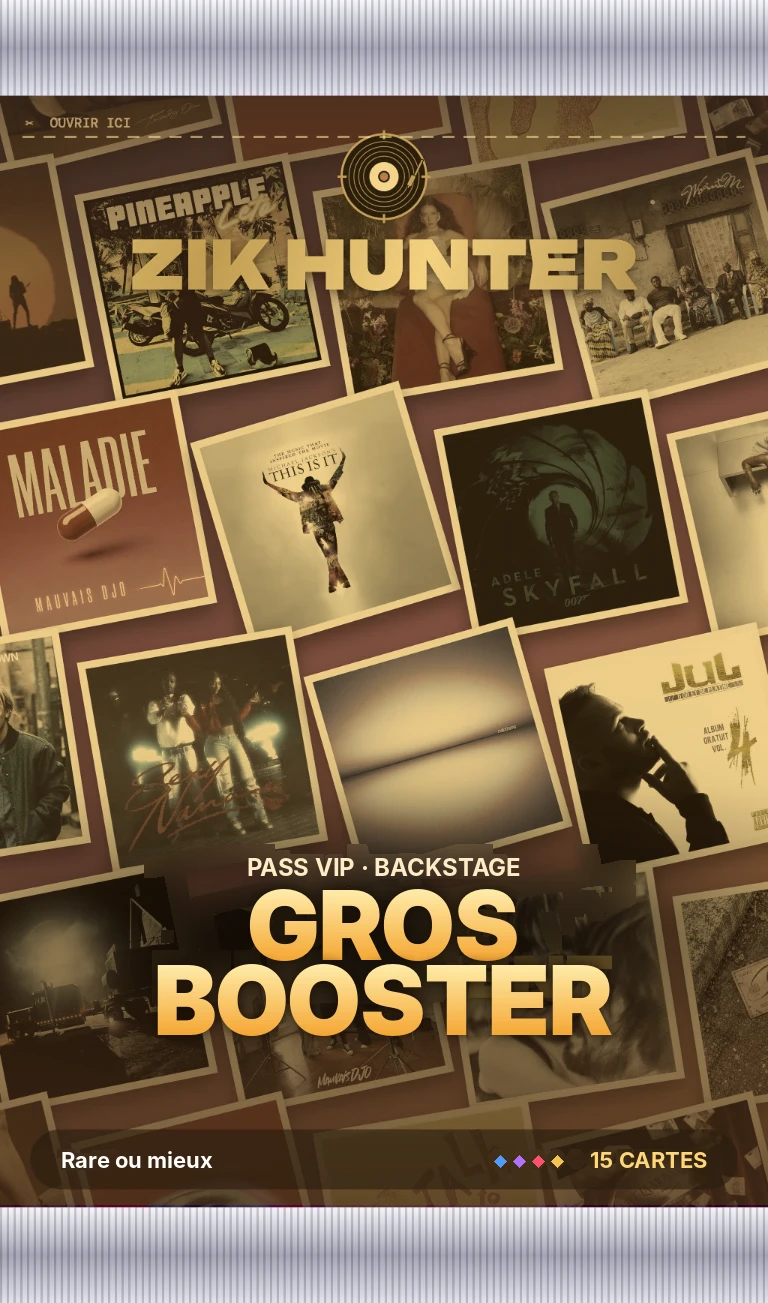
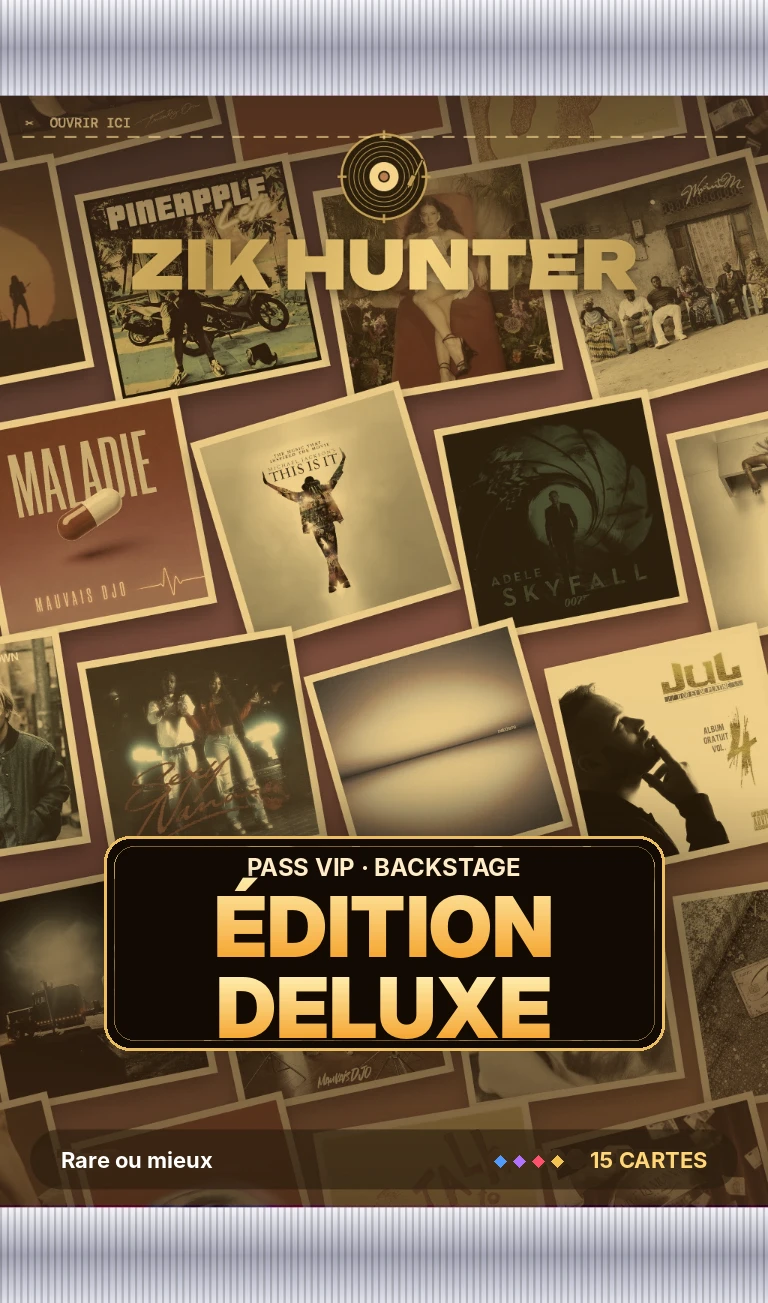
The big booster is now the 'Édition Deluxe': name everywhere and a clean gold label on its sachet (#85)
Claude-Session: https://claude.ai/code/session_01Cz49cVKKKmfXjYEEQbUbJr

Changed region(s): [[0.125, 0.6447, 0.875, 0.8289]]

diff --git a/pass.js b/pass.js
@@ -12,7 +12,7 @@ const tiersPrice = n => Math.round(TIER_VINYLS * n * (n >= 20 ? .6 : n >= 10 ? .
 const passCardName = c => c.kind === "any" ? "Shiny surprise" : (c.kind === "artist" ? (c.tier === 5 ? "Artiste Diamant" : "Artiste Platine") : (c.tier === 5 ? "Légendaire" : "Mythique"))
   + (c.shiny ? " Shiny" : "");
 const passName = r => r.kind === "streams" ? `${fmt(r.amount)} Streams` : r.kind === "vinyls" ? `${r.amount} Vinyles` : r.kind === "boosters" ? `${r.amount} boosters`
-  : r.kind === "big_booster" ? "Gros booster (15 cartes Rare+)" : r.kind === "title" ? `Titre « ${r.title} »` : passCardName(r.card);
+  : r.kind === "big_booster" ? "Édition Deluxe (15 cartes Rare+)" : r.kind === "title" ? `Titre « ${r.title} »` : passCardName(r.card);
 // the reward pictures are the game's own: the 3D booster of the shop, and real cards of the right rarity. The cards are
 // examples (Deezer's chart and famous artists, Travis Scott first), changing every 2 seconds: a reward is a card of
 // that rarity, not that one. Until the examples are loaded, the player's own cards stand in, or a card back.
@@ -174,7 +174,7 @@ async function renderPass() {
         ${d.premium ? "" : `<div class="ps-upsell" id="psUpsell">
           <div class="ps-up-t"><span class="ps-up-k">Billet Fosse → <b>Backstage VIP</b></span>
             <b>Un booster toutes les 3 min</b>
-            <small>+ ${premBig} gros boosters de 15 cartes Rare+, une Shiny surprise, ${fmt(premV)} Vinyles, ${fmt(premS)} Streams et ${premTitles.length} titres${lockedNow ? ` · <em>${lockedNow} récompense${lockedNow > 1 ? "s" : ""} VIP t'attend${lockedNow > 1 ? "ent" : ""} déjà</em>` : ""}</small></div>
+            <small>+ ${premBig} Éditions Deluxe de 15 cartes Rare+, une Shiny surprise, ${fmt(premV)} Vinyles, ${fmt(premS)} Streams et ${premTitles.length} titres${lockedNow ? ` · <em>${lockedNow} récompense${lockedNow > 1 ? "s" : ""} VIP t'attend${lockedNow > 1 ? "ent" : ""} déjà</em>` : ""}</small></div>
           <div class="ps-up-buy"><button class="btn ps-buy" id="psBuy">Surclasser · ${PASS_PRICE}</button>
             <button class="ps-link" id="psBuyV">ou ${PREMIUM_VINYLS} <i class="vin" aria-hidden="true"></i></button></div>
         </div>`}
@@ -264,7 +264,7 @@ async function claimPass(list) {
     const c = got.filter(r => r.kind === "card").map(r => passCardName(r.card));
     const g = got.filter(r => r.kind === "big_booster").reduce((a, r) => a + r.amount, 0);
     const ti = got.filter(r => r.kind === "title").map(r => `titre « ${r.title} »`);
-    const parts = [s && `${fmt(s)} Streams`, v && `${v} Vinyles`, b && `${b} booster${b > 1 ? "s" : ""}`, g && `${g} gros booster${g > 1 ? "s" : ""} (à ouvrir sur l'accueil)`, ...ti,
+    const parts = [s && `${fmt(s)} Streams`, v && `${v} Vinyles`, b && `${b} booster${b > 1 ? "s" : ""}`, g && `${g} Édition${g > 1 ? "s" : ""} Deluxe (à ouvrir sur l'accueil)`, ...ti,
       c.length && `${c.join(", ")} (dans ton prochain booster)`].filter(Boolean);
     toast("Récupéré : " + parts.join(" · ") + (skippedCard ? ". Les autres cartes viendront une à une, après ton prochain booster." : "."));
     try { await loadProfile(); } catch (e) {}
@@ -448,7 +448,7 @@ function vipCard() {
   if (!me || !d || d.premium || Date.parse(d.ends_at) < Date.now()) return "";
   return `<div class="vs-vip">
     <div class="vs-dl"><span class="vs-badge">Pass VIP · ${esc(d.name.split("·").pop().trim())}</span>
-      <b>Un booster toutes les 3 min</b><small>3 gros boosters de 15 cartes Rare+, une Shiny surprise, Vinyles et Streams · <a href="#" id="vsVipSee">voir le pass</a></small></div>
+      <b>Un booster toutes les 3 min</b><small>3 Éditions Deluxe de 15 cartes Rare+, une Shiny surprise, Vinyles et Streams · <a href="#" id="vsVipSee">voir le pass</a></small></div>
     <div class="vs-vip-r"><button class="vs-buy" data-pack="pass">${PASS_PRICE}</button><button class="ps-link" id="vsVipV">ou ${PREMIUM_VINYLS} <i class="vin" aria-hidden="true"></i></button></div>
   </div>`;
 }

diff --git a/app.js b/app.js
@@ -691,7 +691,7 @@ openBig.onclick = () => openPack(BOOSTER);
 const tearHint = document.createElement("p"); tearHint.className = "tear-hint"; tearHint.textContent = "Déchire le haut du sachet pour l'ouvrir";
 packStage.append(packBtn, tearHint, openBig);
 // the big boosters of the VIP pass: 15 cards, all Rare or better
-const BIG = { g: -1, n: "Gros booster", big: true, el: packBtn };
+const BIG = { g: -1, n: "Édition Deluxe", big: true, el: packBtn };
 const bigBtn = document.createElement("button"); bigBtn.className = "btn big-pack"; bigBtn.id = "openBigPack"; bigBtn.hidden = true;
 bigBtn.onclick = () => bigStage();
 packStage.append(bigBtn);
@@ -715,7 +715,7 @@ document.documentElement.dataset.back = "plain";
 const studioScript = document.createElement("script"); studioScript.type = "module"; studioScript.src = "studio.js?v=17"; document.head.appendChild(studioScript);
 function renderStock() {
   bigBtn.hidden = !S.big;                // the big boosters won with the VIP pass
-  bigBtn.innerHTML = `<b>Ouvrir un gros booster</b><small>15 cartes, toutes Rare ou mieux · ${S.big || 0} à ouvrir</small>`;
+  bigBtn.innerHTML = `<b>Ouvrir une Édition Deluxe</b><small>15 cartes, toutes Rare ou mieux · ${S.big || 0} à ouvrir</small>`;
   if (TEST_MODE) {
     stockEl.innerHTML = `<b>Boosters illimités</b><span class="test-badge">Mode test</span>
       <small>Le stock de 10 boosters (un nouveau toutes les 10 min) sera activé à la sortie du jeu.</small>
@@ -799,7 +799,7 @@ function buyPack(p, pay = "streams") {
 function bigStage() {
   if (busy || !Online.active || !S.big || !window.Studio) return openPack(BIG);
   if (views.shop.hidden) show("shop");             // it opens on the booster table
-  showStage(BIG, "Gros booster", "15 cartes · toutes Rare ou mieux");
+  showStage(BIG, "Édition Deluxe", "15 cartes · toutes Rare ou mieux");
 }
 function showStage(p, title, sub) {
   stagePack = p;
@@ -892,7 +892,7 @@ async function openPack(p, opts = {}) {
   const plain = p === BOOSTER || p === BIG;
   seatTable(plain ? $("#shelf") : $("#store"));
   table.classList.toggle("god", god);
-  $("#tableTitle").textContent = god ? "GOD PACK" : p === BOOSTER ? "Booster" : p === BIG ? "Gros booster · 15 cartes" : "Booster " + p.n;
+  $("#tableTitle").textContent = god ? "GOD PACK" : p === BOOSTER ? "Booster" : p === BIG ? "Édition Deluxe · 15 cartes" : "Booster " + p.n;
   deal.innerHTML = "";
   const rip = document.createElement("div"); rip.className = "rip loading" + (god ? " god" : "");
   const pk = p.el.cloneNode(true); pk.tabIndex = -1; pk.disabled = true; pk.removeAttribute("id");

diff --git a/online.js b/online.js
@@ -43,7 +43,7 @@ const MESSAGES = {
   already_claimed: "Déjà récupéré.",
   no_season: "Pas de saison en cours.",
   not_enough_vinyls: "Pas assez de Vinyles.",
-  no_big_pack: "Tu n'as pas de gros booster à ouvrir : ils se gagnent aux paliers 5, 15 et 25 du Pass VIP.",
+  no_big_pack: "Tu n'as pas d'Édition Deluxe à ouvrir : elles se gagnent aux paliers 5, 15 et 25 du Pass VIP.",
   album_buy_closed: "Les titres d'un album ne s'achètent plus : tire-les, échange-les ou trouve-les au marché.",
   payments_off: "Le paiement n'est pas encore disponible. Réessaie un peu plus tard.",
   bad_pack: "Cette offre n'existe plus.",

diff --git a/index.html b/index.html
@@ -271,11 +271,11 @@
 </div>
 <div class="toast" id="toast" hidden></div>
 <script src="https://cdn.jsdelivr.net/npm/@supabase/supabase-js@2.117.2/dist/umd/supabase.js"></script>
-<script src="app.js?v=140"></script>
-<script src="online.js?v=89"></script>
+<script src="app.js?v=141"></script>
+<script src="online.js?v=90"></script>
 <script src="duels.js?v=51"></script>
 <script src="admin.js?v=11"></script>
-<script src="pass.js?v=27"></script>
+<script src="pass.js?v=28"></script>
 <script src="v2.js?v=5"></script>
 <script src="v3.js?v=5"></script>
 </body>
